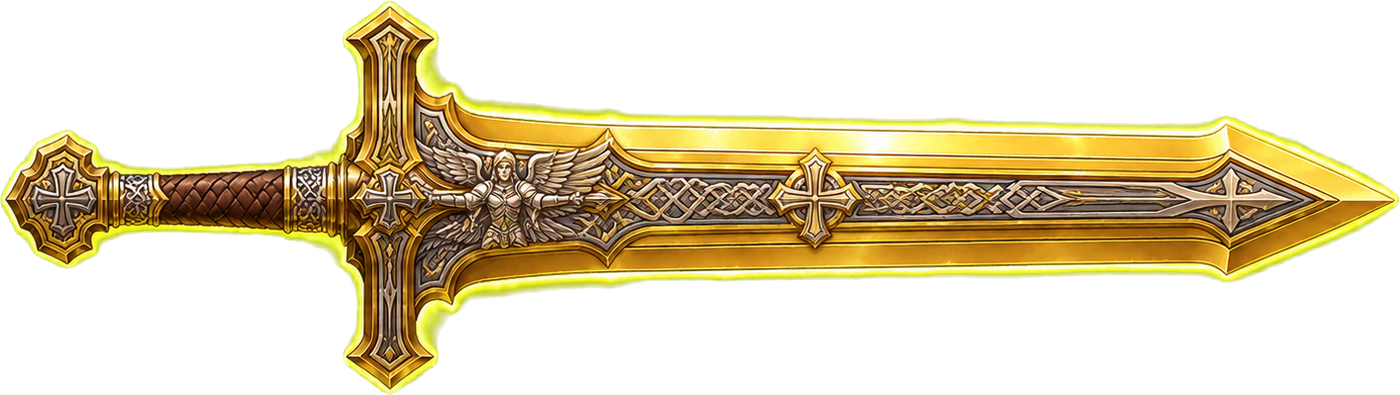
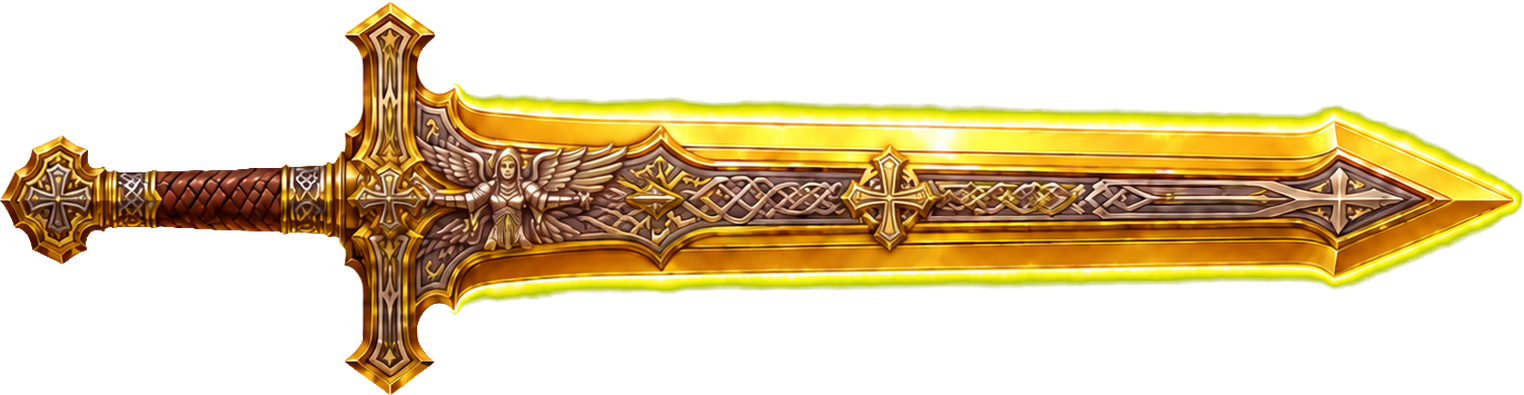
[visuel] Combat : nouvelle épée de lumière (manche sans liseré doré) + halo re-calé et adouci
Remplace l'illustration de l'épée de lumière par la nouvelle version fournie
(plus de liseré doré autour du manche qui faisait bizarre). Le halo doré est
re-cuit sur la nouvelle silhouette de lame (manche exclu) et son pouls est
adouci : la nouvelle illustration brille déjà, le halo ne fait plus que la
faire scintiller légèrement au lieu de doubler l'éclat. Source brute rangée
dans images/sources/.

diff --git a/jeu/ui/combat.js b/jeu/ui/combat.js
@@ -1480,7 +1480,7 @@ export function demarrerCombat({ ctx, heros, inventaire, planches, ennemis, mait
         const sArme = skinArme.echelle * HH / imgHero.naturalHeight;
         // HALO doré (épée de lumière) DERRIÈRE l'arme, en additif + léger pouls lumineux.
         if (skinArme.halo && skinArme.halo.complete && skinArme.halo.naturalWidth) {
-          const pouls = 0.72 + 0.28 * Math.sin(temps * 3.0); // respiration de la lumière
+          const pouls = 0.42 + 0.16 * Math.sin(temps * 3.0); // léger scintillement (l'illu brille déjà)
           const rh = imageReduite(skinArme.halo, sArme); // pré-réduit (netteté)
           ctx.save();
           ctx.globalCompositeOperation = "lighter";
